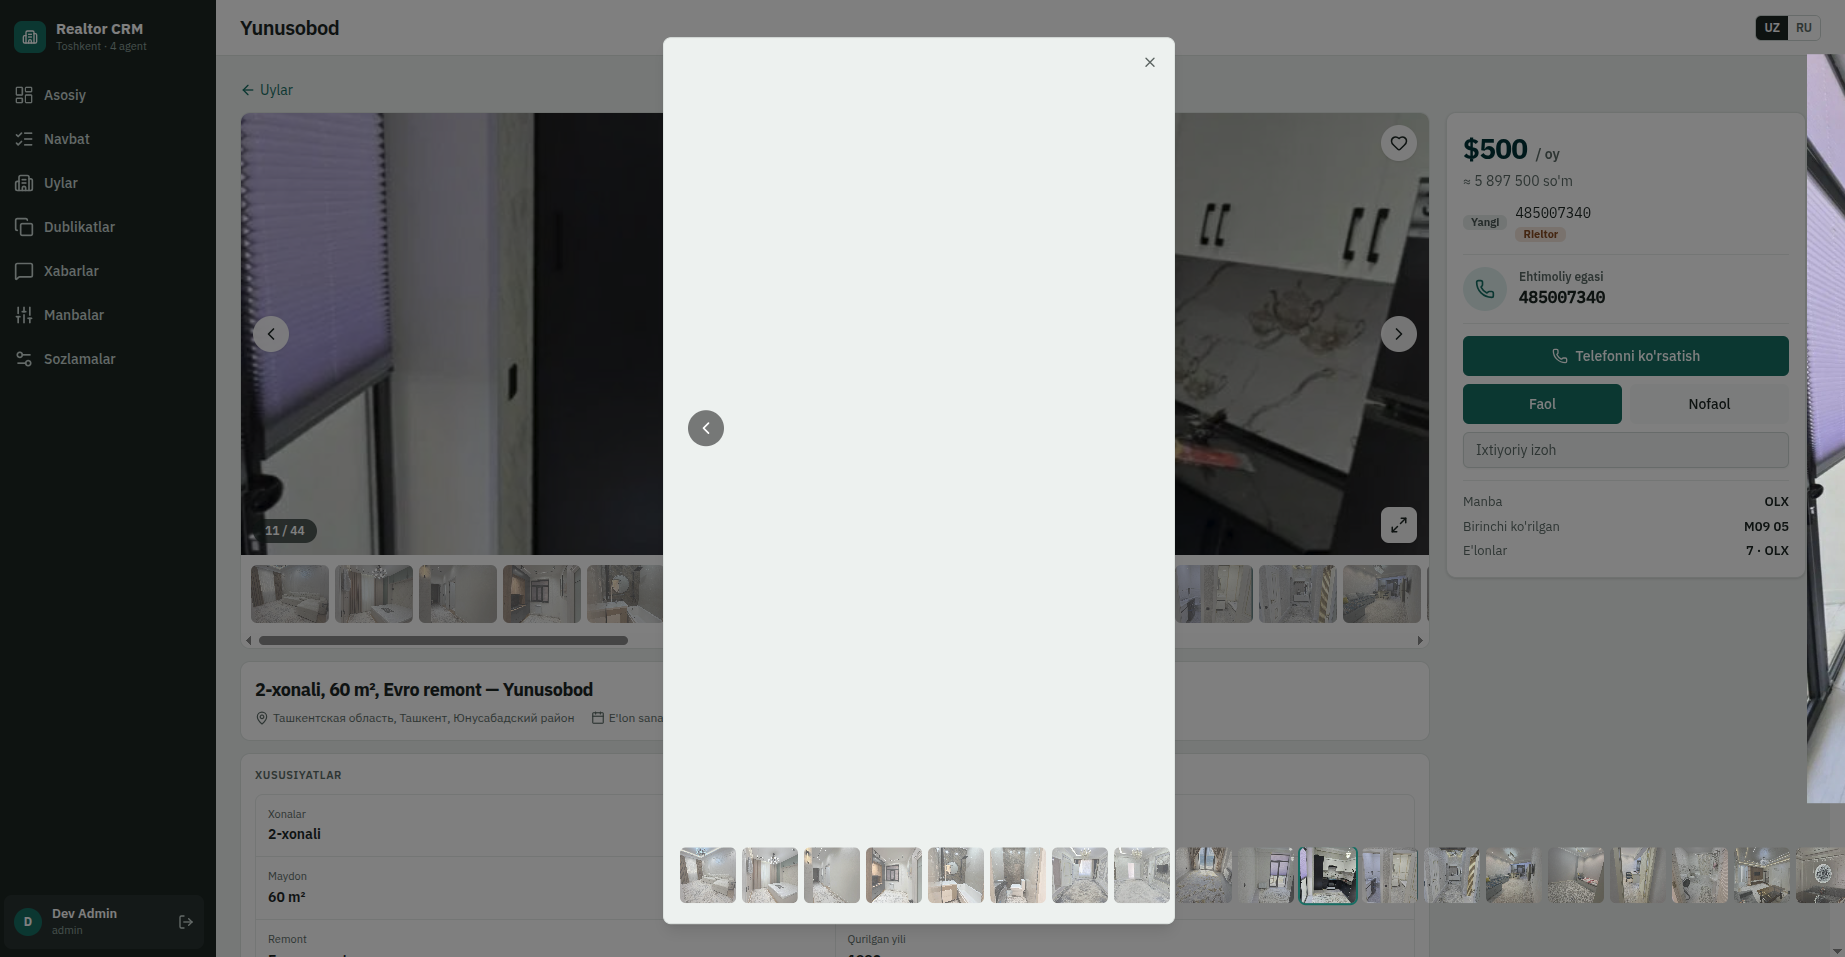
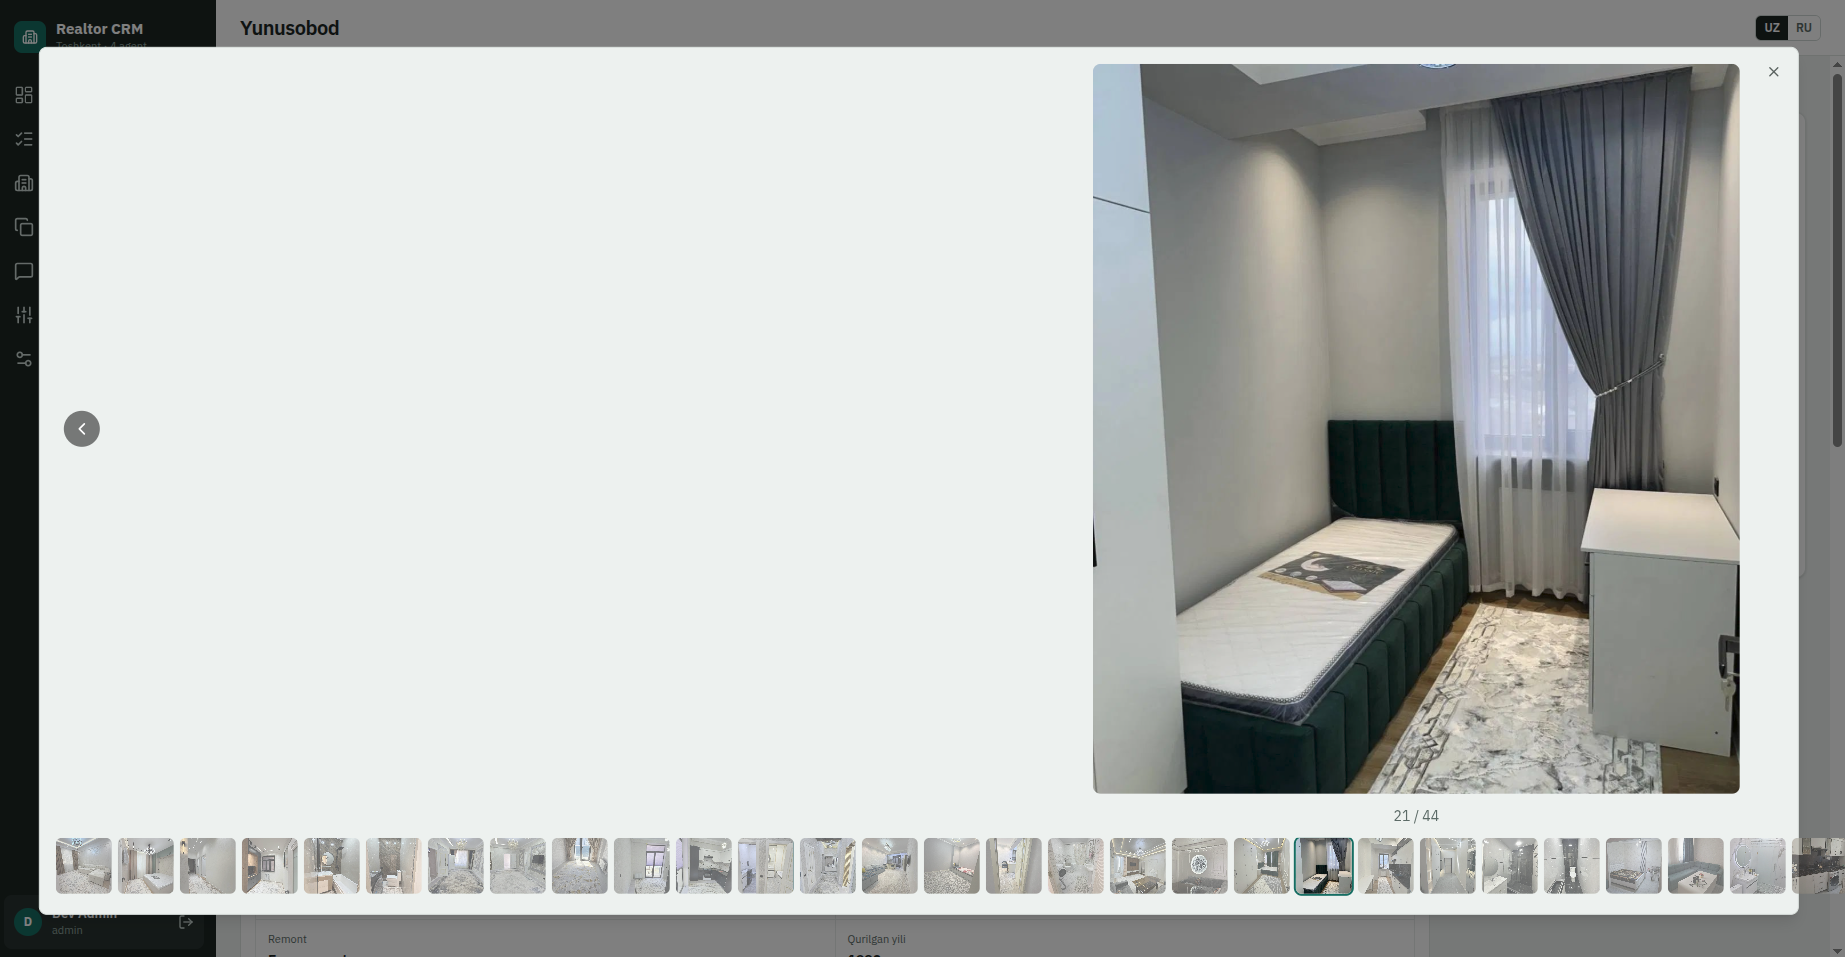
fix(web): center the photo in the expand lightbox
The photo rendered but was shoved to the right with empty space beside it: the
base DialogContent is display:grid, and its single auto-sized column mis-placed
the content. Override it to flex flex-col, make the image stage full width, and
center the image (justify-center + mx-auto) so it sits in the middle of the
modal at all sizes.

Claude-Session: https://claude.ai/code/session_01GQMpPdpaBFQ6xokLDKnaPW

diff --git a/web/src/widgets/property-header/ui/PhotoGallery.tsx b/web/src/widgets/property-header/ui/PhotoGallery.tsx
@@ -79,16 +79,17 @@ export function PhotoGallery({ photos, alt }: { photos: { url: string }[]; alt: 
       )}
 
       <Dialog open={open} onOpenChange={(o) => { if (!o) setOpen(false); }}>
-        {/* base DialogContent sets `sm:max-w-lg`, so widening it needs the `sm:` prefix too —
-            an unprefixed max-w is silently overridden on ≥sm screens (why the modal stayed narrow). */}
-        <DialogContent className="max-w-[95vw] gap-3 p-4 sm:max-w-[95vw]">
+        {/* Override the base grid→flex (its single auto-column mis-sized the content and shoved the
+            photo to one side) and widen it: the base sets `sm:max-w-lg`, so the width needs the
+            `sm:` prefix too, or it's silently clamped to 512px on ≥sm screens. */}
+        <DialogContent className="flex w-full max-w-[95vw] flex-col gap-3 p-4 sm:max-w-[95vw]">
           <DialogTitle className="sr-only">{alt}</DialogTitle>
           {open && (
-            <div className="flex flex-col gap-3">
-              {/* a fixed-height stage: the image fills it with object-contain (never cropped) and
-                  can't collapse to a blank box the way a width-driven `w-full` image could. */}
-              <div className="relative flex h-[76vh] items-center justify-center">
-                <img src={photos[index]?.url} alt="" className="max-h-full max-w-full rounded-lg object-contain" />
+            <div className="flex w-full flex-col gap-3">
+              {/* a full-width, fixed-height stage: the image fills it with object-contain (never
+                  cropped), stays centered, and can't collapse to a blank box like a `w-full` image. */}
+              <div className="relative flex h-[76vh] w-full items-center justify-center">
+                <img src={photos[index]?.url} alt="" className="mx-auto max-h-full max-w-full rounded-lg object-contain" />
                 {count > 1 && (
                   <>
                     <button type="button" aria-label={t("property.prevPhoto")} onClick={() => step(-1)} className="absolute left-2 rounded-full bg-black/50 p-2 text-white hover:bg-black/70">
@@ -100,7 +101,7 @@ export function PhotoGallery({ photos, alt }: { photos: { url: string }[]; alt: 
                   </>
                 )}
               </div>
-              <div className="num text-center text-sm text-muted-foreground">{index + 1} / {count}</div>
+              <div className="num w-full text-center text-sm text-muted-foreground">{index + 1} / {count}</div>
               {count > 1 && (
                 <div className="flex gap-1.5 overflow-x-auto pb-1">
                   {photos.map((p, i) => (
